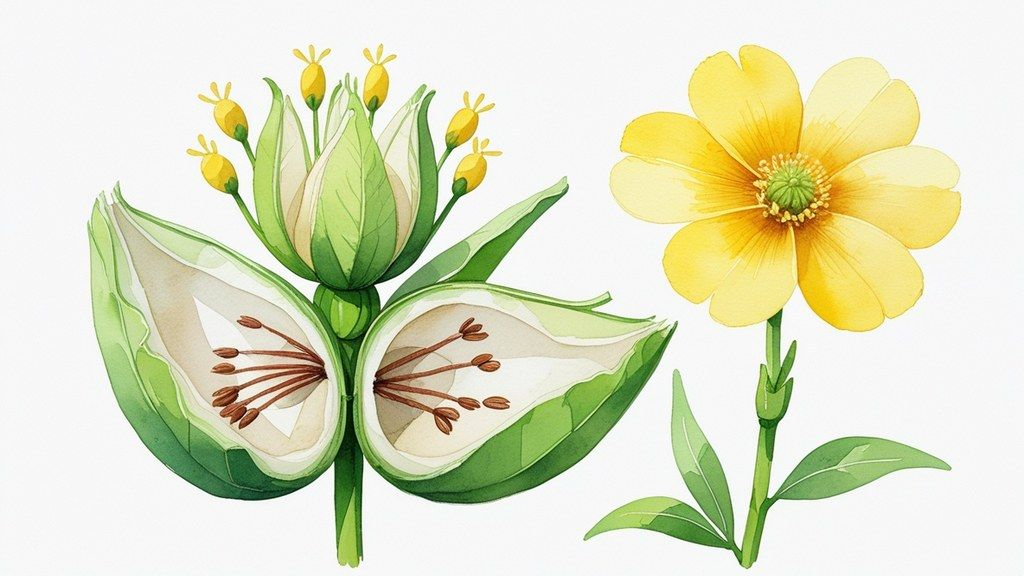
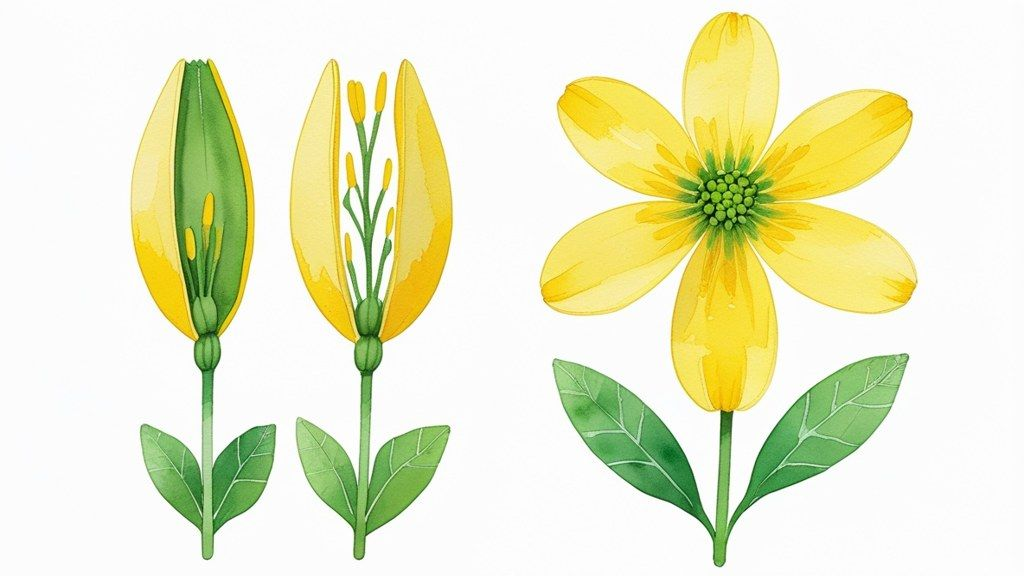
Replace 3 stage_3 learn images with redrawn versions; update captions (#66)

diff --git a/lib/data/seeds/learn_content_data.dart b/lib/data/seeds/learn_content_data.dart
@@ -197,7 +197,7 @@ final learnContentData = <String, List<Map<String, dynamic>>>{
         {
           'type': 'image',
           'imagePath': 'assets/illustrations/stage_3/stage_3_002_flower.jpg',
-          'caption': '{花|はな}のつくり：がく・{花|はな}びら・おしべ・めしべ',
+          'caption': '{花|はな}を{縦|たて}に{半分|はんぶん}に{切|き}った{花|はな}のつくり：がく・{花|はな}びら・おしべ・めしべ',
           'level': 'basic'
         },
         {
@@ -725,7 +725,7 @@ final learnContentData = <String, List<Map<String, dynamic>>>{
         {
           'type': 'image',
           'imagePath': 'assets/illustrations/stage_3/stage_3_007_shadow.jpg',
-          'caption': '{影|かげ}は{光|ひかり}と{反対|はんたい}がわにできる',
+          'caption': '{朝|あさ}・{昼|ひる}・{夕方|ゆうがた}で{太陽|たいよう}の{向|む}きがかわると、{影|かげ}の{向|む}きも{反対|はんたい}にかわる',
           'level': 'basic'
         },
         {
